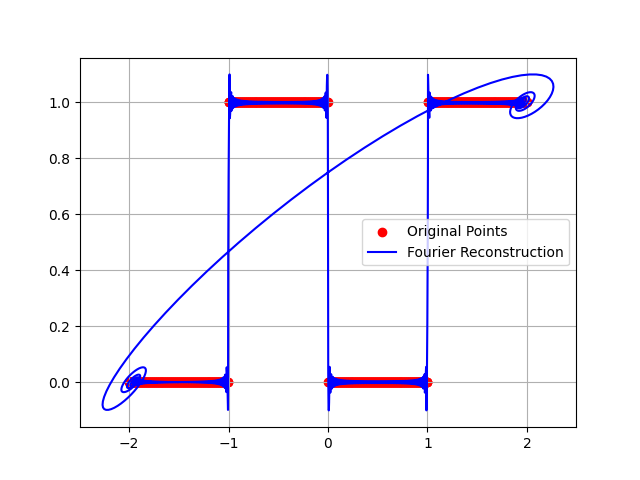
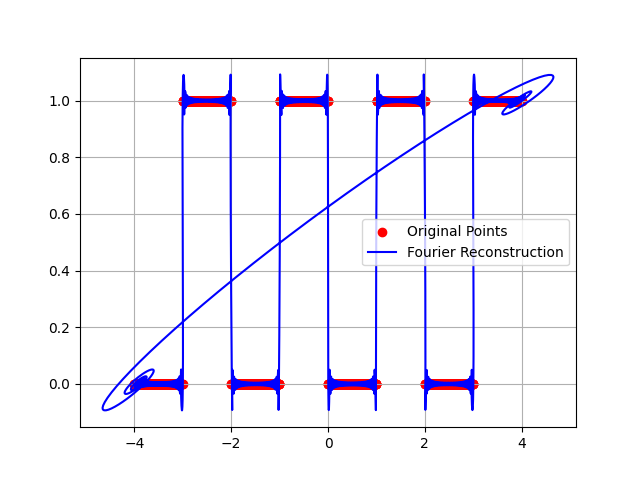
Switching to numpy

diff --git a/fourier/fourier.py b/fourier/fourier.py
@@ -1,33 +1,29 @@
 import numpy as np
 import matplotlib.pyplot as plt
-import torch
 
 class FourierSeries:
     def __init__(self, x, y, n=501):
-        # Check if GPU is available
-        self.device = torch.device('cuda' if torch.cuda.is_available() else 'cpu')
-        
-        # Convert input data to torch tensors
+        # Convert input data to numpy arrays
         if isinstance(x, np.ndarray) and isinstance(y, np.ndarray):
-            x_tensor = torch.tensor(x, dtype=torch.float32, device=self.device)
-            y_tensor = torch.tensor(y, dtype=torch.float32, device=self.device)
+            x_array = x.astype(np.float32)
+            y_array = y.astype(np.float32)
         elif hasattr(x, 'x') and hasattr(x, 'y'):  # Handle DataFrame input
-            x_tensor = torch.tensor(x.x.values, dtype=torch.float32, device=self.device)
-            y_tensor = torch.tensor(x.y.values, dtype=torch.float32, device=self.device)
+            x_array = x.x.values.astype(np.float32)
+            y_array = x.y.values.astype(np.float32)
         else:
-            x_tensor = torch.tensor(x, dtype=torch.float32, device=self.device)
-            y_tensor = torch.tensor(y, dtype=torch.float32, device=self.device)
+            x_array = np.array(x, dtype=np.float32)
+            y_array = np.array(y, dtype=np.float32)
             
-        self.data = x_tensor + 1j * y_tensor
+        self.data = x_array + 1j * y_array
         self.n = n
         self.deg_start, self.deg_end = self.compute_deg_start_end()
-        self.c_n = torch.zeros(self.n, dtype=torch.complex64, device=self.device)
+        self.c_n = np.zeros(self.n, dtype=np.complex64)
 
         self.total_points = len(self.data)
-        self.t = torch.linspace(0, 1, self.total_points, device=self.device)
+        self.t = np.linspace(0, 1, self.total_points)
 
-        self.series_constant = torch.arange(self.deg_start, self.deg_end + 1, device=self.device)
-        self.series_constant = torch.exp(2j * torch.pi * self.series_constant)
+        self.series_constant = np.arange(self.deg_start, self.deg_end + 1)
+        self.series_constant = np.exp(2j * np.pi * self.series_constant)
 
     def compute_deg_start_end(self):
         tmp = (self.n - 1) / 2
@@ -35,43 +31,42 @@ class FourierSeries:
         return int(start), int(end)
     
     def compute_c_n(self, n):
-        exp_term = torch.exp(-2j * torch.pi * n * self.t)
-        return torch.sum(self.data * exp_term) / self.total_points
+        exp_term = np.exp(-2j * np.pi * n * self.t)
+        return np.sum(self.data * exp_term) / self.total_points
         
     def compute_series(self):
-        degrees = torch.arange(self.deg_start, self.deg_end + 1, device=self.device)
+        degrees = np.arange(self.deg_start, self.deg_end + 1)
         for i, deg in enumerate(degrees):
             self.c_n[i] = self.compute_c_n(deg)
 
     def compute_series_value(self, t):
-        if isinstance(t, np.ndarray):
-            t = torch.tensor(t, dtype=torch.float32, device=self.device)
+        if not isinstance(t, np.ndarray):
+            t = np.array(t, dtype=np.float32)
         
-        degrees = torch.arange(self.deg_start, self.deg_end + 1, device=self.device)
-        result = torch.zeros(len(t), dtype=torch.complex64, device=self.device)
+        degrees = np.arange(self.deg_start, self.deg_end + 1)
+        result = np.zeros(len(t), dtype=np.complex64)
         
         for i, deg in enumerate(degrees):
-            result += self.c_n[i] * torch.exp(2j * torch.pi * deg * t)
+            result += self.c_n[i] * np.exp(2j * np.pi * deg * t)
         
-        # Convert to CPU and numpy for compatibility with the rest of the code
-        return [result.real.cpu().numpy(), result.imag.cpu().numpy()]
+        return [result.real, result.imag]
 
     def return_series(self):
-        return self.c_n.cpu().numpy()
+        return self.c_n
     
     def export_series(self):
         return {
-            "c_n": self.c_n.cpu().numpy(),
+            "c_n": self.c_n,
             "deg_start": self.deg_start,
             "deg_end": self.deg_end,
             "n": self.n,
             "total_points": self.total_points,
-            "t": self.t.cpu().numpy(),
-            "series_constant": self.series_constant.cpu().numpy()
+            "t": self.t,
+            "series_constant": self.series_constant
         }
     
     def sample_n(self, n=10000):
-        t_smooth = torch.linspace(0, 1, n, device=self.device)
+        t_smooth = np.linspace(0, 1, n)
         reconstructed_points = self.compute_series_value(t_smooth)
         reconstructed_x, reconstructed_y = reconstructed_points
         return reconstructed_x, reconstructed_y
@@ -79,7 +74,7 @@ class FourierSeries:
     def plot_series(self, n=10000, plot_original=True):
         reconstructed_x, reconstructed_y = self.sample_n(n)
         if plot_original:
-            plt.scatter(self.data.real.cpu().numpy(), self.data.imag.cpu().numpy(), color='red', label='Original Points')
+            plt.scatter(self.data.real, self.data.imag, color='red', label='Original Points')
         plt.plot(reconstructed_x, reconstructed_y, color='blue', label='Fourier Reconstruction')
         plt.legend()
         plt.grid(True)
@@ -88,7 +83,7 @@ class FourierSeries:
     def prepare_for_manim(self):
         """
         Prepare Fourier coefficients for Manim visualization
-        Converts PyTorch tensors to Python native types for JSON serialization
+        Converts numpy arrays to Python native types for JSON serialization
         
         Returns:
             List of tuples (frequency, complex_coefficient) sorted by magnitude
@@ -99,8 +94,8 @@ class FourierSeries:
             freq = self.deg_start + i
             if freq == 0:
                 continue
-            # Convert tensor to Python complex number
-            coeff_value = complex(self.c_n[i].item().real, self.c_n[i].item().imag)
+            # Convert numpy complex to Python complex number
+            coeff_value = complex(self.c_n[i].real, self.c_n[i].imag)
             coeffs.append((freq, coeff_value))
         
         # Sort by magnitude (largest first)
@@ -125,12 +120,12 @@ class FourierSeries:
 
 
 if __name__ == "__main__":
-    x = np.linspace(-2, 2 - 1e-8, 1000)
+    x = np.linspace(-4, 4 - 1e-8, 2000)
     y = np.floor(x)%2
 
     fourier = FourierSeries(x, y)
     fourier.compute_series()
-    fourier.plot_series(n=100)
+    fourier.plot_series(n=10000)
     
     # Plot the histogram of the magnitude of c_n values
     plt.figure(figsize=(10, 6))
